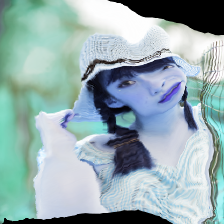
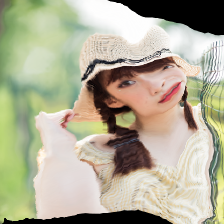
save wraped query img

diff --git a/test_models.py b/test_models.py
@@ -93,7 +93,7 @@ def test_model_on_image_pair(args, query_image, reference_image):
             axis[2].imshow(warped_query_image)
             axis[2].set_title(
                 'Warped query image according to estimated flow by {}_{}'.format(args.model, args.pre_trained_model))
-        cv2.imwrite(os.path.join(args.write_dir, 'output_warped_query_image_{}_{}.png'.format(args.model, args.pre_trained_model)), warped_query_image)  # save wrapped image
+        cv2.imwrite(os.path.join(args.write_dir, 'output_warped_query_image_{}_{}.png'.format(args.model, args.pre_trained_model)), warped_query_image[:,:,::-1])  # save wrapped image
         
         axis[0].imshow(query_image)
         axis[0].set_title('Query image')
